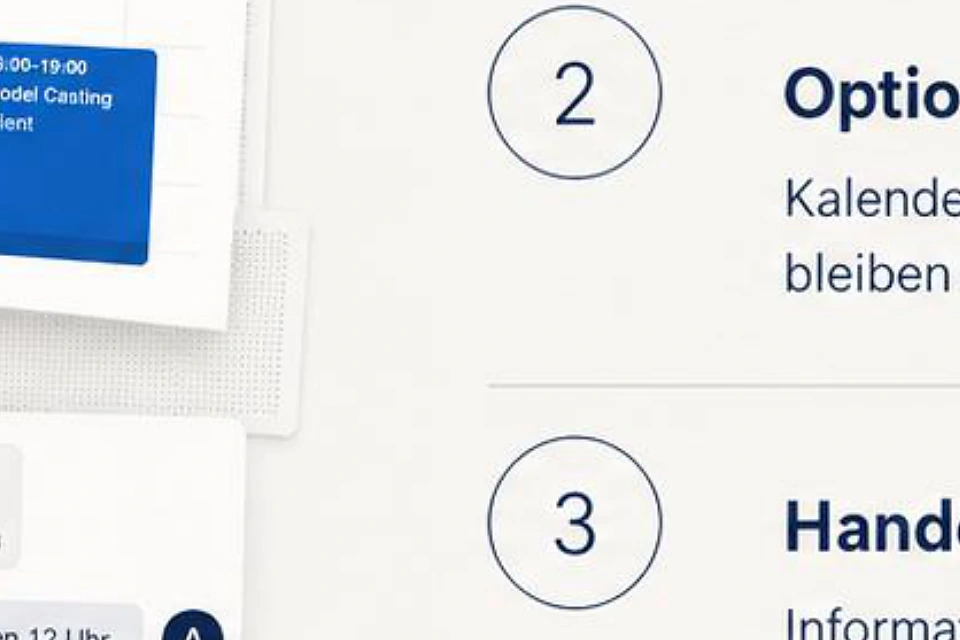
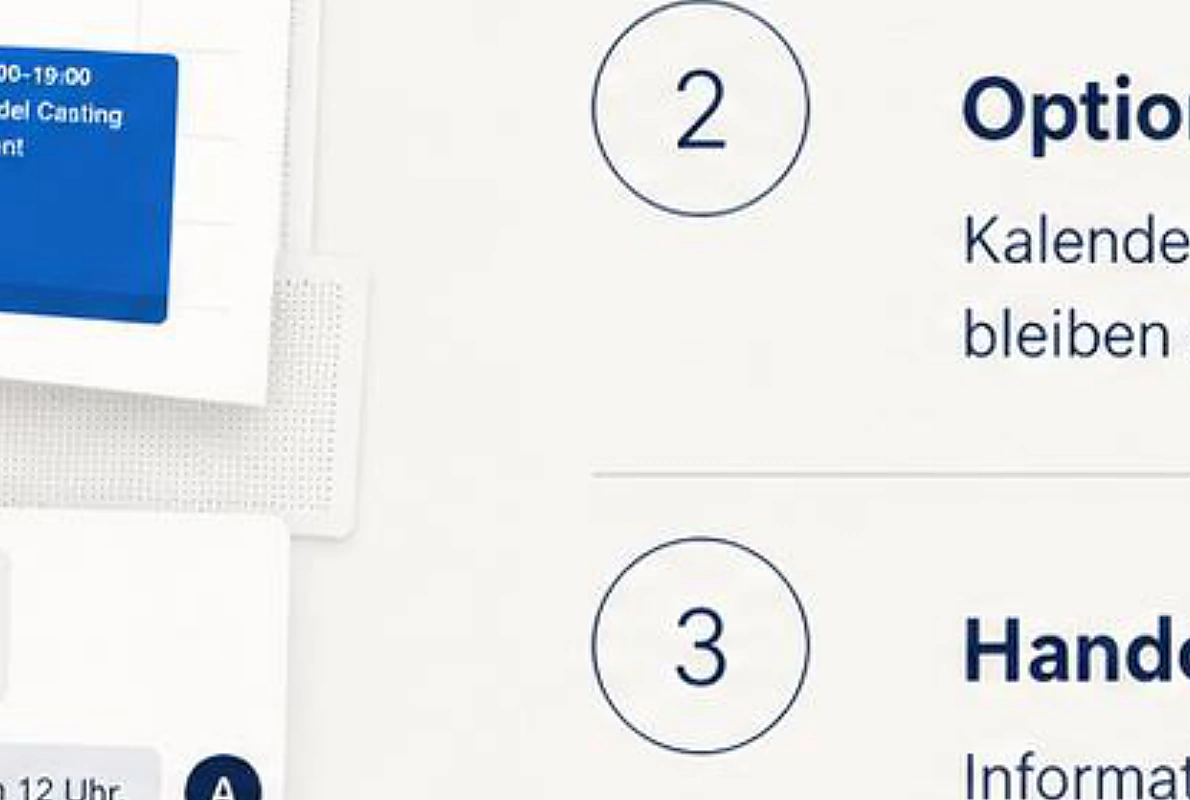
fix(marketing): tighter UI crops, sharper exports, cleaner frames
Re-cut all pitch-deck visuals with slide-background trimming, 5x render,
and panel-specific coordinates so presentation copy and bleed are gone.
Agency strip drops duplicate calendar; product shot styling simplified.

diff --git a/marketing-site/src/productVisuals.ts b/marketing-site/src/productVisuals.ts
@@ -33,98 +33,98 @@ const base = '/images/product';
 export const PRODUCT_VISUALS: Record<ProductVisualKey, ProductVisualMeta> = {
   'hero-stack': {
     src: `${base}/hero-stack.webp`,
-    width: 1800,
-    height: 1622,
+    width: 2000,
+    height: 1830,
     alt: 'Index Casting calendar, client casting chat, and invoices in one workspace',
   },
   'problem-options': {
     src: `${base}/problem-options.webp`,
-    width: 1090,
-    height: 555,
+    width: 1358,
+    height: 665,
     alt: 'Fragmented option request threads across tools',
   },
   'problem-calendar': {
     src: `${base}/problem-calendar.webp`,
-    width: 1240,
-    height: 670,
+    width: 1540,
+    height: 829,
     alt: 'Disconnected weekly casting calendar',
   },
   'problem-invoices': {
     src: `${base}/problem-invoices.webp`,
-    width: 1080,
-    height: 720,
+    width: 1340,
+    height: 900,
     alt: 'Invoices managed outside the casting workflow',
   },
   'problem-chat': {
     src: `${base}/problem-chat.webp`,
-    width: 960,
-    height: 640,
+    width: 1190,
+    height: 800,
     alt: 'Parallel chat without booking context',
   },
   'platform-connected': {
     src: `${base}/platform-connected.webp`,
-    width: 1600,
-    height: 1283,
+    width: 2000,
+    height: 1596,
     alt: 'Calendar, option threads, client chat, and billing connected in one workflow',
   },
   'agency-workflow': {
     src: `${base}/agency-workflow.webp`,
-    width: 1600,
-    height: 1335,
+    width: 2000,
+    height: 2096,
     alt: 'Agency calendar, client chats, and option request threads',
   },
   'agency-calendar': {
     src: `${base}/agency-calendar.webp`,
-    width: 1600,
-    height: 569,
+    width: 2000,
+    height: 733,
     alt: 'Agency live calendar with options, castings, and jobs',
   },
   'agency-client-chat': {
     src: `${base}/agency-client-chat.webp`,
-    width: 1600,
-    height: 497,
+    width: 2000,
+    height: 653,
     alt: 'Agency and client messaging with casting context',
   },
   'agency-option-threads': {
     src: `${base}/agency-option-threads.webp`,
-    width: 1600,
-    height: 674,
+    width: 2000,
+    height: 868,
     alt: 'Option and casting request pipeline for agencies',
   },
   'client-discovery-phone': {
     src: `${base}/client-discovery-phone.webp`,
-    width: 720,
-    height: 936,
+    width: 686,
+    height: 1894,
     alt: 'Visual-first model discovery on mobile',
   },
   'client-option-threads': {
     src: `${base}/client-option-threads.webp`,
-    width: 1385,
-    height: 804,
+    width: 1837,
+    height: 867,
     alt: 'Client option and casting requests with status',
   },
   'client-chat-workflow': {
     src: `${base}/client-chat-workflow.webp`,
-    width: 1400,
-    height: 909,
+    width: 1860,
+    height: 1468,
     alt: 'Client and agency chat with embedded request cards',
   },
   'model-phones': {
     src: `${base}/model-phones.webp`,
-    width: 1600,
-    height: 1566,
+    width: 2000,
+    height: 2003,
     alt: 'Model mobile inbox and request flow',
   },
   'model-phone-inbox': {
     src: `${base}/model-phone-inbox.webp`,
-    width: 600,
-    height: 1384,
+    width: 800,
+    height: 2287,
     alt: 'Model discovery and agency chat on mobile',
   },
   'model-phone-request': {
     src: `${base}/model-phone-request.webp`,
-    width: 600,
-    height: 1002,
+    width: 800,
+    height: 1302,
     alt: 'Model option request and availability on mobile',
   },
 };

diff --git a/marketing-site/src/index.css b/marketing-site/src/index.css
@@ -1894,13 +1894,13 @@ main section[id] {
   object-fit: cover;
 }
 
-/* Frameless product shots — no aspect-ratio boxes or dark letterboxing */
+/* Frameless product shots — natural aspect, no letterbox frames */
 .productShot {
   margin: 0;
   border-radius: var(--radius-lg);
   overflow: hidden;
-  box-shadow: var(--shadow-soft);
-  background: transparent;
+  box-shadow: 0 14px 42px rgba(12, 11, 10, 0.07);
+  background: rgba(255, 253, 248, 0.65);
   line-height: 0;
 }
 
@@ -1910,7 +1910,17 @@ main section[id] {
   height: auto;
   max-width: 100%;
   vertical-align: top;
-  image-rendering: auto;
+}
+
+.clientShowcase .productShot,
+.clientSlotsGrid .productShot,
+.modelPhoneRow .productShot {
+  background: transparent;
+  box-shadow: 0 10px 32px rgba(12, 11, 10, 0.06);
+}
+
+.clientSlotsGrid .productShot {
+  align-self: start;
 }
 
 .productShot--wide {

diff --git a/marketing-site/src/sections/AgencySection.tsx b/marketing-site/src/sections/AgencySection.tsx
@@ -16,7 +16,7 @@ const pillars = [
 ];
 
 const agencyHero = visual('agency-workflow');
-const agencyCalendar = visual('agency-calendar');
+const agencyOptionThreads = visual('agency-option-threads');
 const agencyClientChat = visual('agency-client-chat');
 
 export function AgencySection() {
@@ -78,10 +78,10 @@ export function AgencySection() {
 
         <div className="agencyProductStrip">
           <ProductShot
-            src={agencyCalendar.src}
-            alt={agencyCalendar.alt}
-            width={agencyCalendar.width}
-            height={agencyCalendar.height}
+            src={agencyOptionThreads.src}
+            alt={agencyOptionThreads.alt}
+            width={agencyOptionThreads.width}
+            height={agencyOptionThreads.height}
             wide
           />
           <ProductShot

diff --git a/marketing-site/scripts/extract-pitch-visuals.py b/marketing-site/scripts/extract-pitch-visuals.py
@@ -3,7 +3,7 @@
 Extract product UI crops from the pitch deck PDF.
 
 Region coordinates are defined for a 1920×1080 pixmap (fitz Matrix(2, 2)).
-The PDF mediabox is 960×540 pt — do NOT multiply coords by render scale directly.
+The PDF mediabox is 960×540 pt — scale coords with RENDER_SCALE / COORD_REF_SCALE.
 """
 
 from __future__ import annotations
@@ -17,58 +17,59 @@ ROOT = Path(__file__).resolve().parents[1]
 PDF = Path("/Users/rubenjohanneselge/Downloads/Index_Casting_Pitch_Deck_Innsbruck.pdf")
 OUT = ROOT / "public" / "images" / "product"
 
+# Slide background (pitch deck) — trim this so presentation copy disappears
+SLIDE_BG = (236, 234, 230)
+
 # (page_1based, left, top, right, bottom) @ 1920×1080 reference
 REGIONS: dict[str, tuple[int, int, int, int, int]] = {
-    # Slide 1 — UI cluster (trim stray logo glyph on the left)
-    "hero-stack": (1, 820, 68, 1905, 1010),
-    # Slide 2 — fragmented tools collage
-    "problem-options": (2, 500, 32, 1045, 345),
-    "problem-calendar": (2, 715, 38, 1335, 415),
-    "problem-invoices": (2, 455, 355, 995, 715),
-    "problem-chat": (2, 915, 375, 1395, 695),
+    # Slide 1 — UI cluster only (no logo glyph / slide copy on the left)
+    "hero-stack": (1, 855, 72, 1905, 1010),
+    # Slide 2 — fragmented tools (each window isolated)
+    "problem-options": (2, 505, 34, 1048, 348),
+    "problem-calendar": (2, 722, 40, 1338, 418),
+    "problem-invoices": (2, 462, 358, 998, 718),
+    "problem-chat": (2, 922, 378, 1398, 698),
     # Slide 3 — connected workflow
-    "platform-connected": (3, 655, 22, 1905, 1045),
-    # Slide 4 — agency stack
-    "agency-workflow": (4, 665, 18, 1905, 1045),
-    "agency-calendar": (4, 715, 42, 1905, 395),
-    "agency-client-chat": (4, 545, 195, 1905, 615),
-    "agency-option-threads": (4, 585, 495, 1905, 1045),
-    # Slide 5 — client
-    "client-discovery-phone": (5, 525, 50, 1145, 1020),
-    "client-option-threads": (5, 1175, 48, 1905, 475),
-    "client-chat-workflow": (5, 1035, 465, 1905, 1020),
-    # Slide 6 — models
-    "model-phones": (6, 780, 58, 1875, 1005),
-    "model-phone-inbox": (6, 780, 58, 1275, 1005),
-    "model-phone-request": (6, 1265, 58, 1875, 1005),
+    "platform-connected": (3, 668, 24, 1905, 1045),
+    # Slide 4 — agency UI windows (no slide copy on the left)
+    "agency-workflow": (4, 698, 20, 1905, 1045),
+    "agency-calendar": (4, 748, 48, 1905, 398),
+    "agency-client-chat": (4, 568, 192, 1905, 618),
+    "agency-option-threads": (4, 598, 492, 1905, 1045),
+    # Slide 5 — client (phone centered; panels on the right only)
+    "client-discovery-phone": (5, 752, 105, 1065, 988),
+    "client-option-threads": (5, 1118, 54, 1902, 432),
+    "client-chat-workflow": (5, 1110, 402, 1902, 992),
+    # Slide 6 — model phones (two separate devices, no bleed between them)
+    "model-phones": (6, 798, 68, 1872, 998),
+    "model-phone-inbox": (6, 805, 68, 1210, 998),
+    "model-phone-request": (6, 1242, 68, 1872, 998),
 }
 
-# Reference pixmap size for REGIONS (Matrix(2,2) on 960×540 pt pages)
 COORD_REF_SCALE = 2
-RENDER_SCALE = 4
+RENDER_SCALE = 5
 
 MAX_WIDTHS: dict[str, int] = {
-    "hero-stack": 1800,
-    "platform-connected": 1600,
-    "agency-workflow": 1600,
-    "agency-calendar": 1600,
-    "agency-client-chat": 1600,
-    "agency-option-threads": 1600,
-    "client-discovery-phone": 720,
-    "client-option-threads": 1400,
-    "client-chat-workflow": 1400,
-    "model-phones": 1600,
-    "model-phone-inbox": 600,
-    "model-phone-request": 600,
-    "problem-options": 1600,
-    "problem-calendar": 1600,
-    "problem-invoices": 1600,
-    "problem-chat": 1600,
+    "hero-stack": 2000,
+    "platform-connected": 2000,
+    "agency-workflow": 2000,
+    "agency-calendar": 2000,
+    "agency-client-chat": 2000,
+    "agency-option-threads": 2000,
+    "client-discovery-phone": 960,
+    "client-option-threads": 2000,
+    "client-chat-workflow": 2000,
+    "model-phones": 2000,
+    "model-phone-inbox": 800,
+    "model-phone-request": 800,
+    "problem-options": 2000,
+    "problem-calendar": 2000,
+    "problem-invoices": 2000,
+    "problem-chat": 2000,
 }
 
 
 def pixmap_box(box: tuple[int, int, int, int]) -> tuple[int, int, int, int]:
-    """Map 1920×1080 reference coords → current render scale."""
     l, t, r, b = box
     factor = RENDER_SCALE / COORD_REF_SCALE
     return (
@@ -90,11 +91,11 @@ def crop_page(doc: fitz.Document, page_idx: int, box: tuple[int, int, int, int])
     return img.crop((l, t, r, b))
 
 
-def trim_margins(img: Image.Image, threshold: int = 12, pad: int = 4) -> Image.Image:
-    """Trim near-white slide margins; keep UI content."""
+def trim_slide_margins(img: Image.Image, threshold: int = 14, pad: int = 6) -> Image.Image:
+    """Remove pitch-deck slide background; keep UI cards and windows."""
     rgb = img.convert("RGB")
-    white = Image.new("RGB", rgb.size, (255, 255, 255))
-    diff = ImageChops.difference(rgb, white).convert("L")
+    bg = Image.new("RGB", rgb.size, SLIDE_BG)
+    diff = ImageChops.difference(rgb, bg).convert("L")
     mask = diff.point(lambda p: 255 if p > threshold else 0)
     bbox = mask.getbbox()
     if not bbox:
@@ -104,17 +105,22 @@ def trim_margins(img: Image.Image, threshold: int = 12, pad: int = 4) -> Image.I
     t = max(0, t - pad)
     r = min(rgb.width, r + pad)
     b = min(rgb.height, b + pad)
-    cropped = rgb.crop((l, t, r, b))
-    return cropped.filter(ImageFilter.UnsharpMask(radius=0.8, percent=100, threshold=3))
+    return rgb.crop((l, t, r, b))
+
+
+def sharpen(img: Image.Image) -> Image.Image:
+    return img.filter(ImageFilter.UnsharpMask(radius=1.0, percent=140, threshold=2))
 
 
 def save_webp(img: Image.Image, path: Path, max_width: int | None = None) -> tuple[int, int]:
-    out = trim_margins(img)
+    out = trim_slide_margins(img)
+    out = sharpen(out)
     if max_width and out.width > max_width:
         ratio = max_width / out.width
         out = out.resize((max_width, int(out.height * ratio)), Image.Resampling.LANCZOS)
+        out = sharpen(out)
     path.parent.mkdir(parents=True, exist_ok=True)
-    out.save(path, format="WEBP", quality=94, method=6)
+    out.save(path, format="WEBP", quality=96, method=6)
     kb = path.stat().st_size // 1024
     print(f"  {path.name}: {out.width}x{out.height} ({kb} KB)")
     return out.width, out.height
